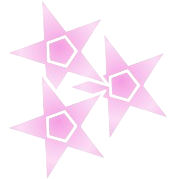
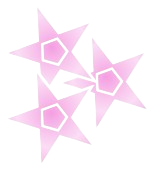
added

diff --git a/src/components/buttonField.js b/src/components/buttonField.js
@@ -4,7 +4,9 @@ import {
     HYDImg,
     IRISImg,
     TULIPImg,
-    LGBImg
+    LGBImg,
+    LILYImg,
+    MYSImg
   } from './image/images'
 
 import {
@@ -70,7 +72,7 @@ const ButtonField = ({seedPos, username}) => {
                 <div
                     key={index}
                     style={{
-                        font: '20px Century Gothic',
+                        font: '16px Century Gothic',
                         background: button.BGC,
                         position: 'absolute',
                         left: (button.xPos + seedPos.seedX - 250),
@@ -84,15 +86,14 @@ const ButtonField = ({seedPos, username}) => {
                         setShowFlowerInfo((showFlowerInfo) => (showFlowerInfo === index ? -1 : index));
                     }}
                 >
-                    {index + 1}
-                    <img src = {CHBImg}  style = {{ width: 100 }}/>
+                    <img src = {MYSImg}  style = {{ width: 100, alignContent: 'center'}}/>
                 </div>
             ))}
             {showFlowerInfo >= 0 && (
                 <Card style = {{ width: 250, left: seedPos.seedX -  window.innerWidth/3, top: seedPos.seedY - 250}}>
-                    <Image src={CHBImg} wrapped ui={false} />
+                    <Image src={MYSImg} wrapped ui={false} />
                     <CardContent>
-                        <CardHeader>{username}님의 HYD</CardHeader>
+                        <CardHeader>{username}님의 물망초</CardHeader>
                         <CardMeta>
                             <span className='date'>YJB가 2024.03.17에 선물했어요!</span>
                         </CardMeta>

diff --git a/src/components/image/images.js b/src/components/image/images.js
@@ -3,3 +3,5 @@ export const HYDImg = require('./HYD.png');
 export const IRISImg = require('./IRIS.png');
 export const LGBImg = require('./LGB.png');
 export const TULIPImg = require('./TULIP.png');
+export const LILYImg = require('./LILY.png');
+export const MYSImg = require('./MYS.png');
